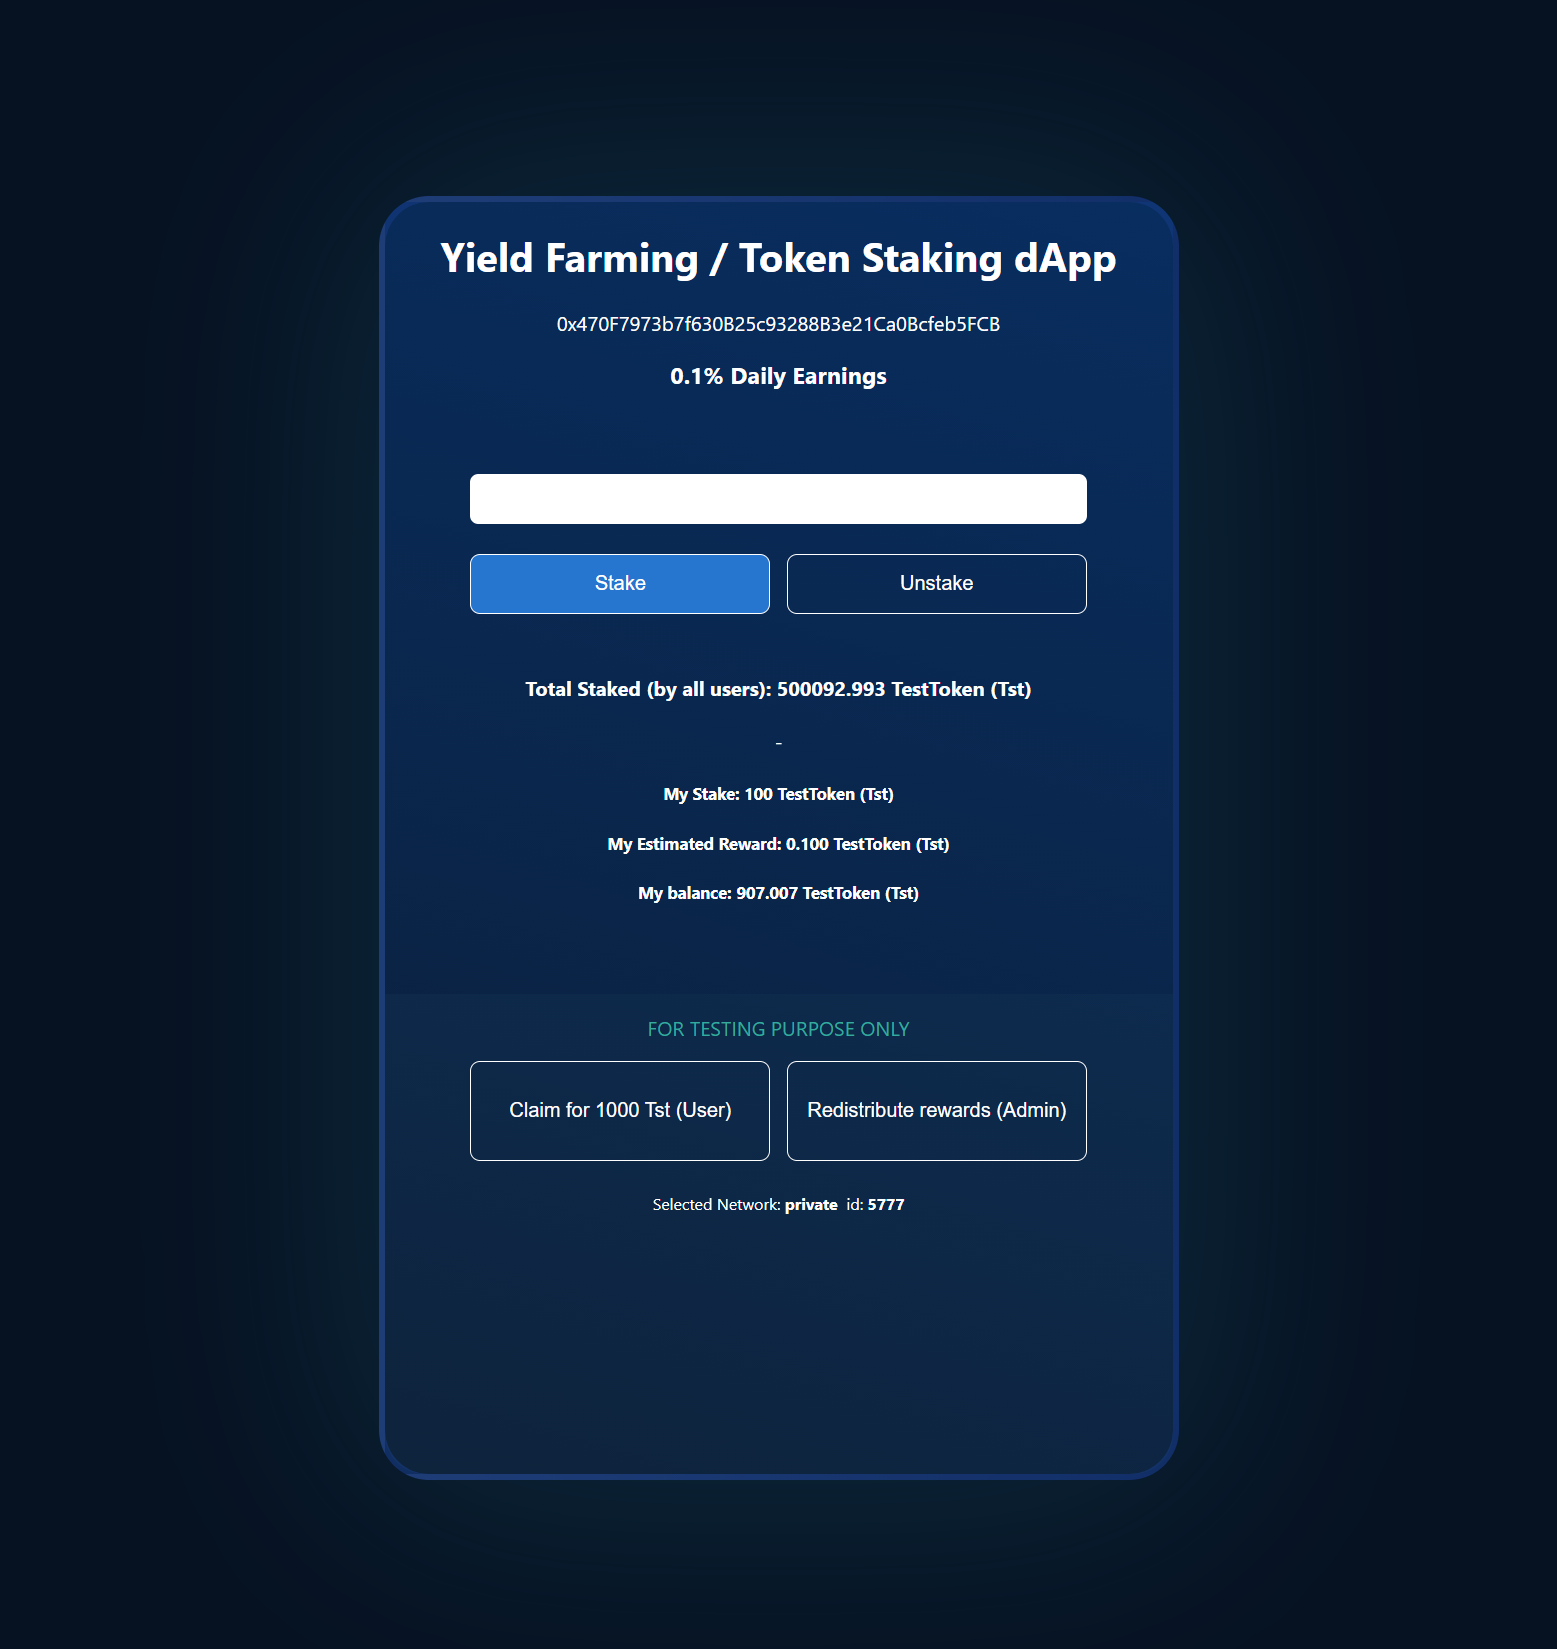
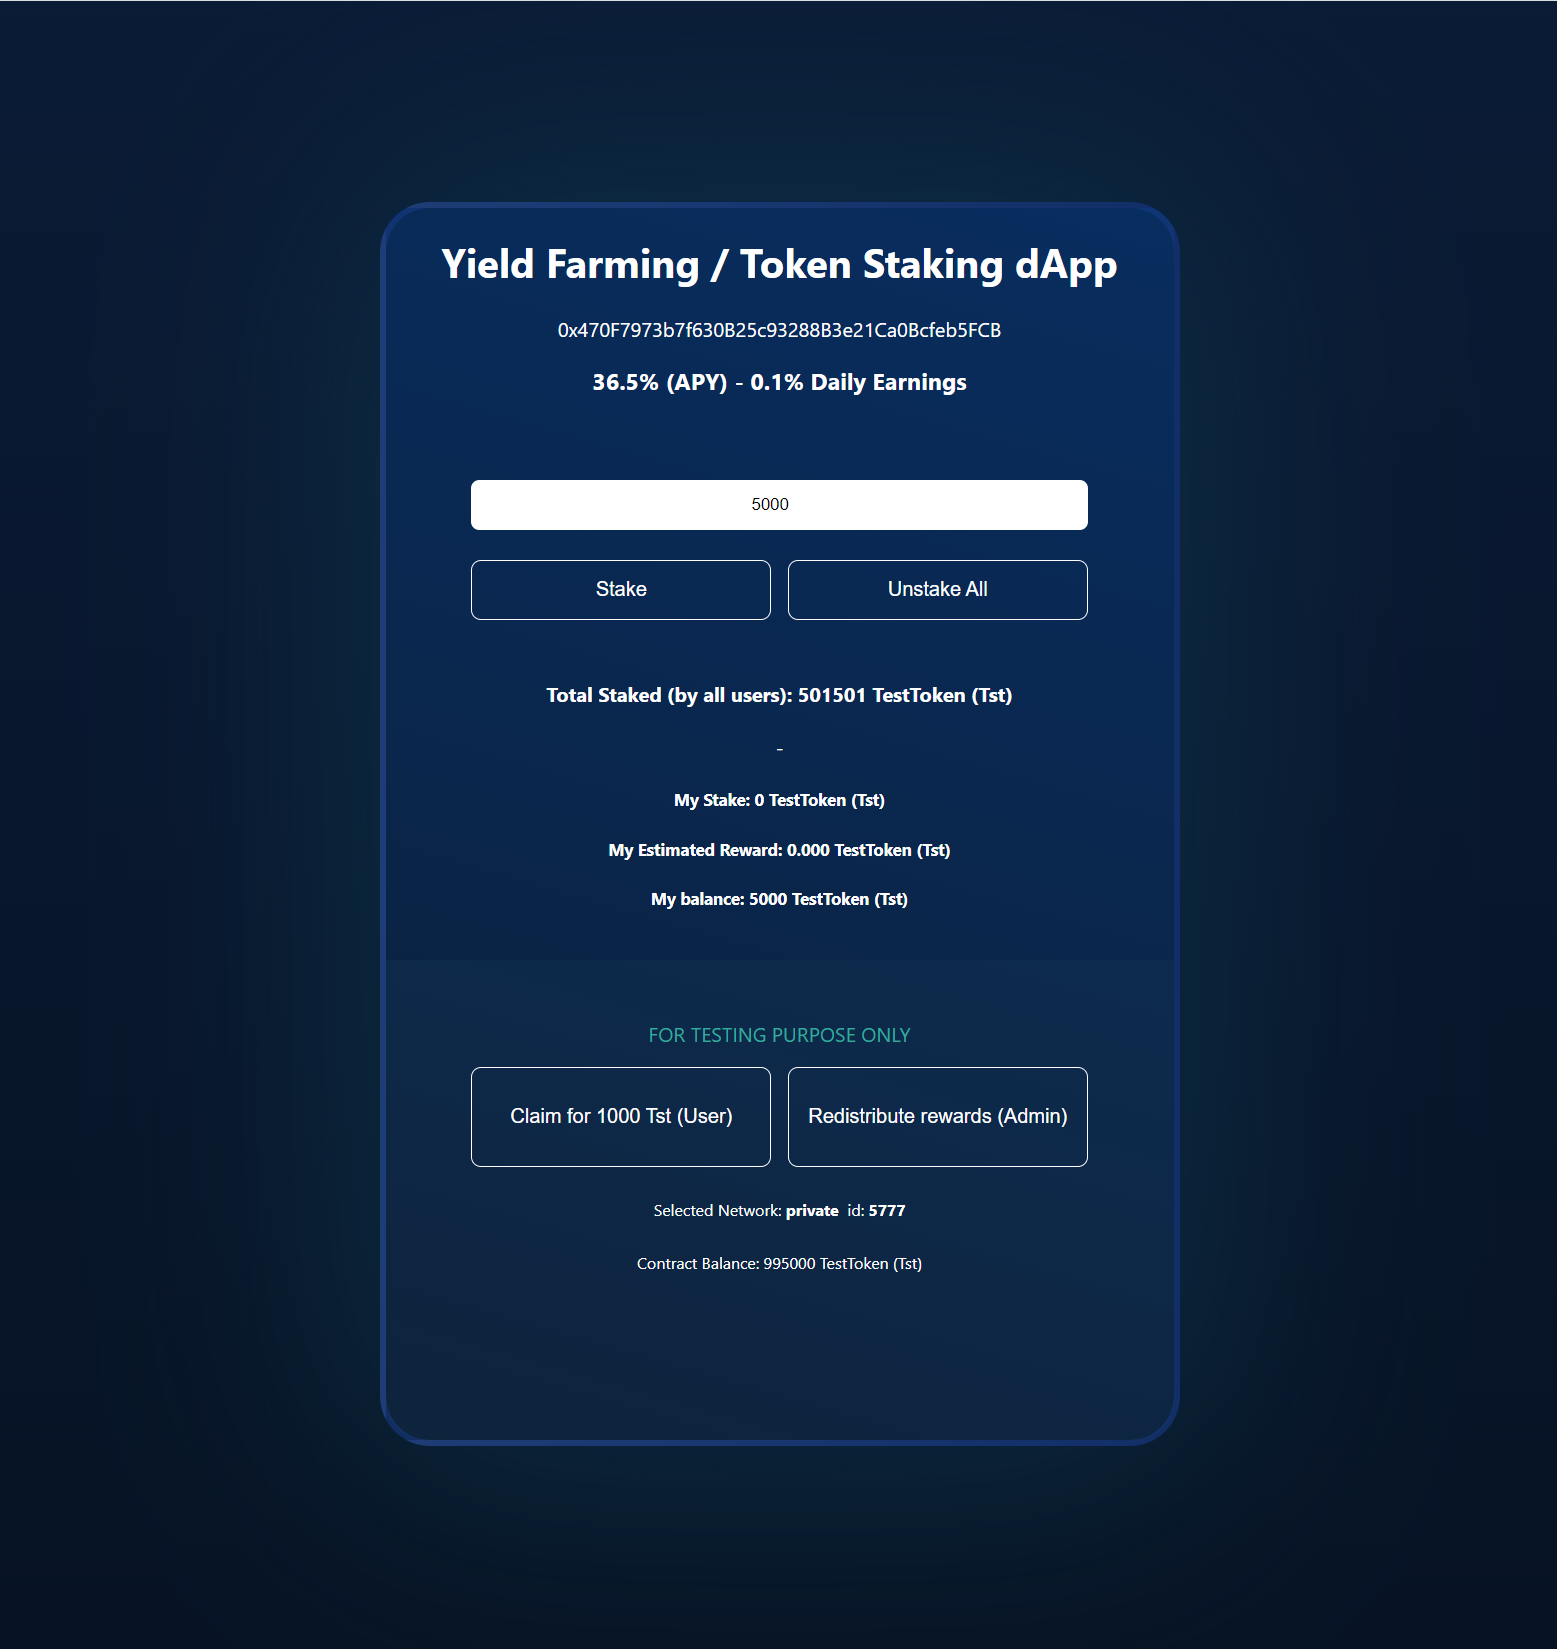
ability to stake MAX balance

diff --git a/src/App.js b/src/App.js
@@ -217,6 +217,10 @@ const App = () => {
       });
   };
 
+  const goMax = () => {
+    setInputValue(userBalance);
+  };
+
   return (
     <div className={classes.Grid}>
       {loader ? <div className={classes.curtain}></div> : null}
@@ -227,6 +231,7 @@ const App = () => {
         <p>{account}</p>
         <h3>36.5% (APY) - 0.1% Daily Earnings</h3>
         <div className={classes.inputDiv}>
+       
           <input
             className={classes.input}
             type="number"
@@ -235,6 +240,7 @@ const App = () => {
             onChange={inputChangeHandler}
             value={inputValue}
           ></input>
+          
         </div>
         <Button buttonState={'stake'} stake={stakeHandler}>
           Stake
@@ -251,7 +257,7 @@ const App = () => {
           <h5>
             My Estimated Reward: {(myStake * 0.001).toFixed(3)} TestToken (Tst){' '}
           </h5>
-          <h5>My balance: {userBalance} TestToken (Tst) </h5>
+          <h5 onClick={goMax} className={classes.goMax} >My balance: {userBalance} TestToken (Tst) </h5>
         </div>
         <div className={classes.for_testing}>
           <p>FOR TESTING PURPOSE ONLY</p>

diff --git a/src/App.module.css b/src/App.module.css
@@ -37,6 +37,7 @@
   height: 5em;
 
   align-items: center;
+
 }
 
 .input {
@@ -45,6 +46,7 @@
   border-radius: 0.5em;
   border: none;
   text-align: center;
+
 
 }
 input:focus {
@@ -59,7 +61,8 @@ input:focus {
 }
 
 .for_testing {
-  margin-top: 13em;
+  margin-top: 11em;
+  padding-top: 1em;
   background-color: rgba(95, 158, 160, 0.034);
   height: 24em;
   border-radius: 0 0 2em 2em;
@@ -78,10 +81,15 @@ input:focus {
   border-radius: 0.5em;
   height: 5em;
   width: 15em;
+  cursor: pointer;
 }
 
 .for_testing button:hover {
   background-color: rgba(255, 255, 255, 0.068);
+}
+
+.goMax {
+  cursor: pointer;
 }
 
 .curtain {

diff --git a/src/components/Button.module.css b/src/components/Button.module.css
@@ -7,6 +7,7 @@
   height: 3em;
   width: 15em;
   margin-top: 1em;
+  cursor: pointer;
   }
   .stakeButton:hover {
     background-color: #2675cf;
@@ -22,6 +23,7 @@
     border-radius: 0.5em;
     height: 3em;
     width: 15em;
+    cursor: pointer;
   }
 
   .unstakeButton:hover {
